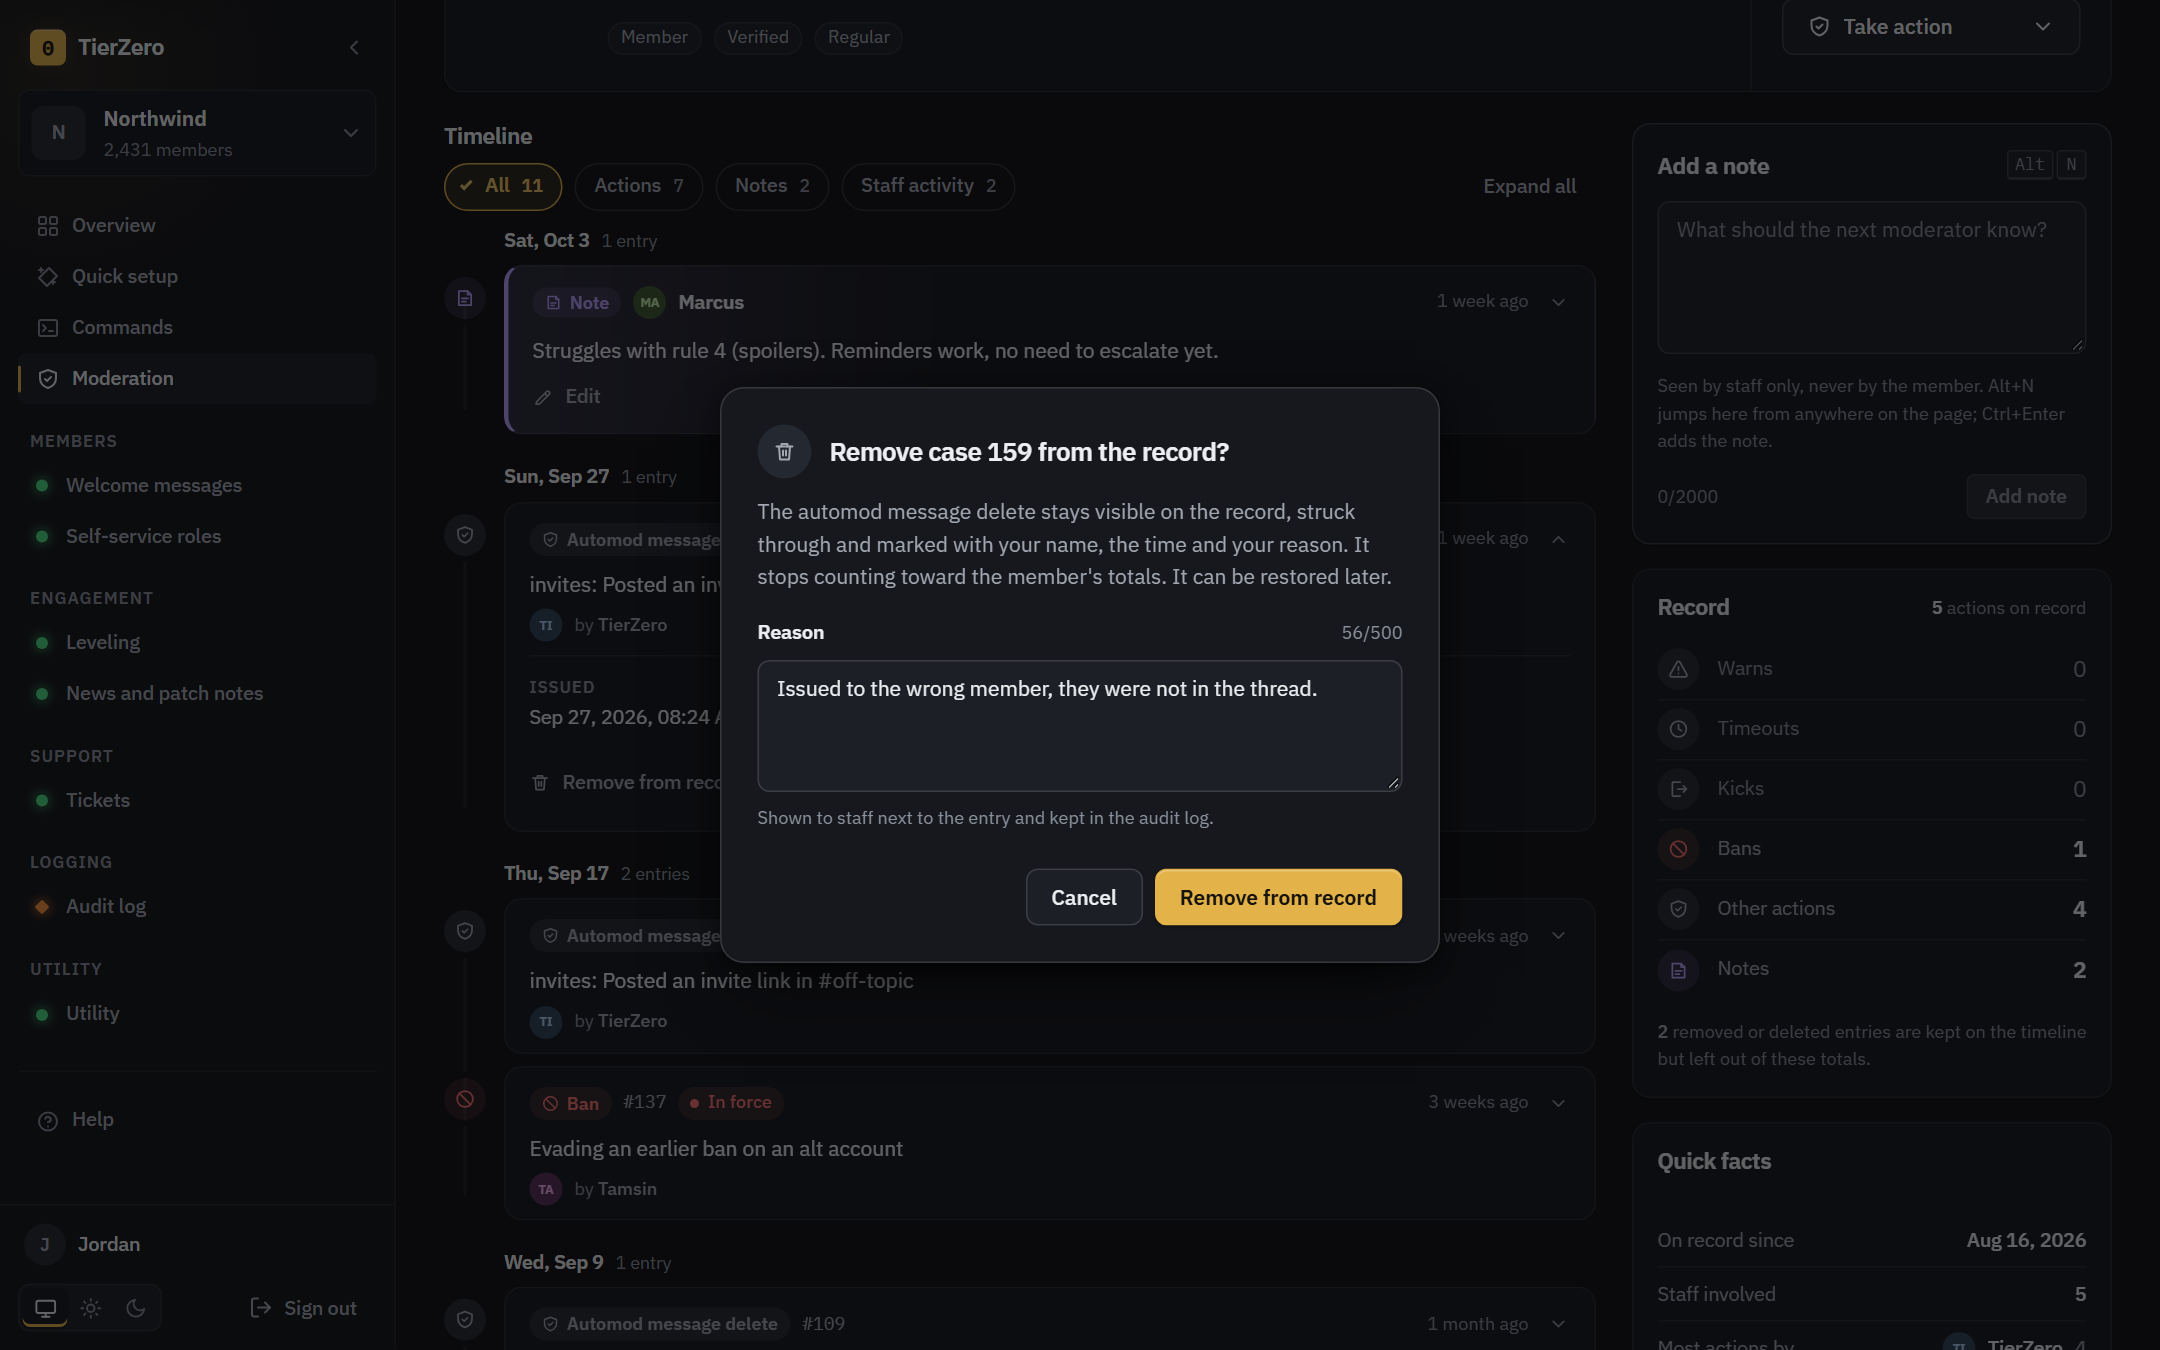
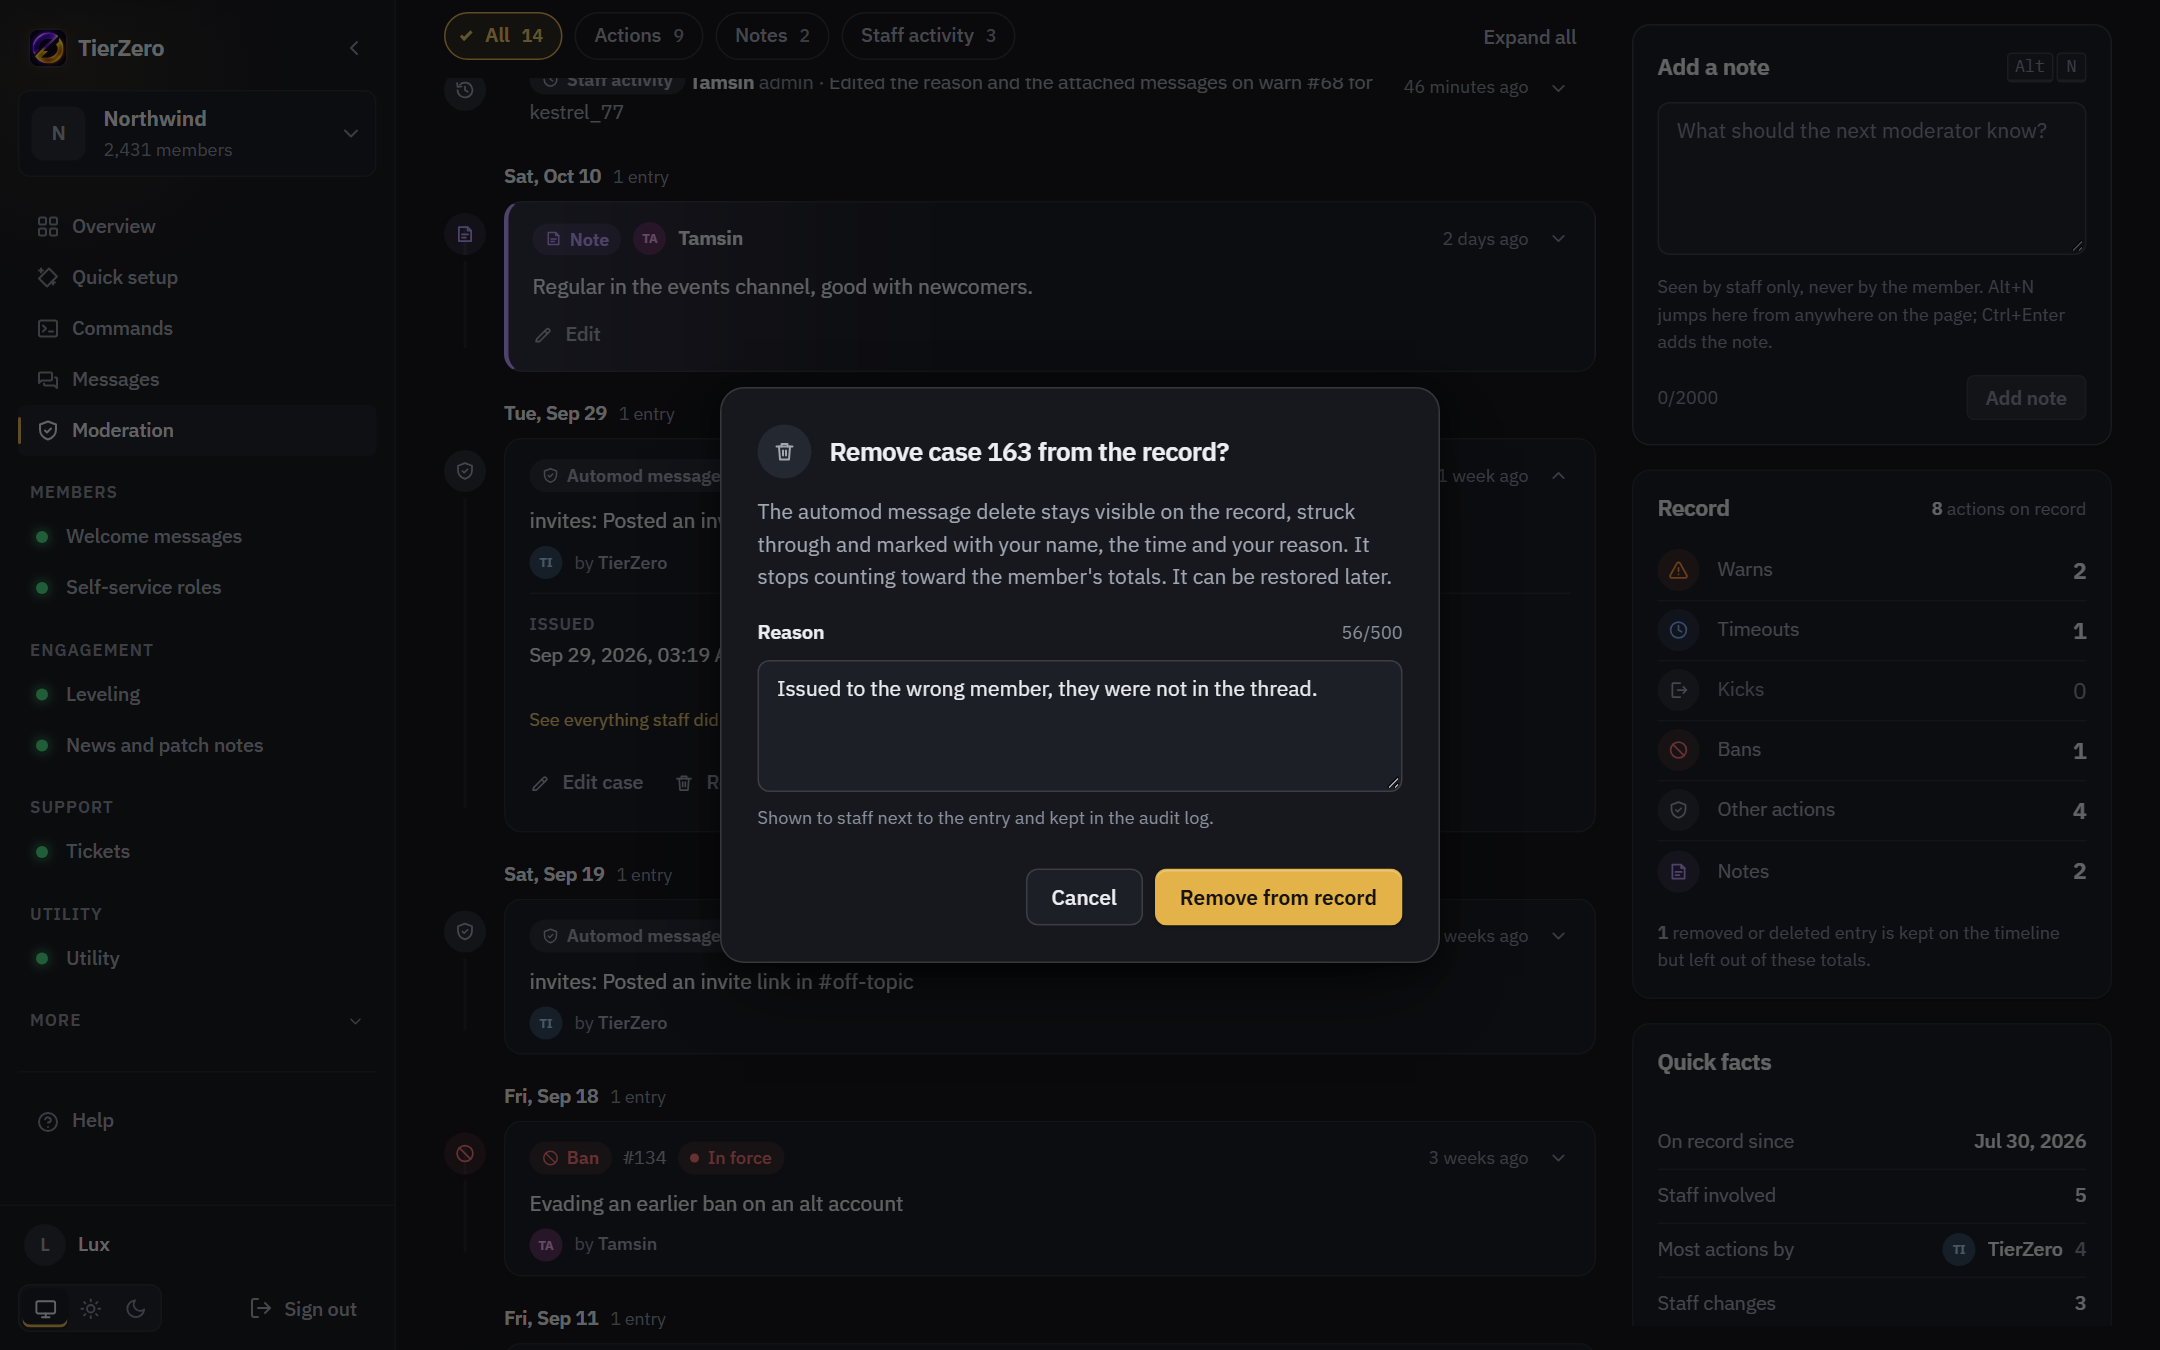
Retake the screenshots for the new dashboard
The images predated the new logo, the Mod logs and Server logs tabs, the Messages page and case editing. All nineteen are retaken from a mock server, signed in as Lux. The action log and audit trail images are renamed to match the tabs they show, and new ones cover server logs, the Messages page, the command settings sheet, editing a case and the Danger zone, each added to the features page.

diff --git a/docs/features.md b/docs/features.md
@@ -55,9 +55,13 @@ The Commands page lists every command on the server, including the right-click e
 
 ![The Commands page with a hidden command and role limits](images/commands.png)
 
+![A command's settings sheet: who can use it, where, and its reply](images/command-sheet.png)
+
 ## Messages
 
 The Messages page builds messages and embeds for the bot to post, such as rules, announcements or event notices. You edit on the left and see the message drawn the way Discord shows it on the right.
+
+![The Messages page with a saved template, its live preview and the editor](images/messages.png)
 
 What you can set:
 
@@ -187,6 +191,10 @@ Discord shows an entry only to members with the matching permission: Timeout Mem
 
 Open a case on the member's page and choose **Edit case**. You can change the reason, the attached messages (remove one, add one, or choose which version of an edited message the member was warned for), and, while a timeout or ban is still running, how long it lasts. A new length counts from now and is applied in Discord straight away, including making a ban permanent. A timeout or ban that has already ended can't have its length changed.
 
+![The Edit case dialog, choosing which version of an edited message broke the rules](images/edit-case.png)
+
+![A case marked as edited, with the version the member was warned for](images/member-case.png)
+
 Moderators can edit their own cases, admins and the owner any case, including automod's. Changing the length of a ban needs the same level as banning. A case that was removed from the record has to be restored first.
 
 An edited case shows a blue **Case edited by staff** note with who and when, on the member's page and in Member actions. That is different from the amber **Message edited** label inside an attached message, which means the member changed their own message. Staff activity records every edit with what it said before and after, and each case has a **See everything staff did on this case** link, which Member actions also offers as **Staff activity** next to **Profile** on every row. The post in the mod log channel and any direct message already sent keep the old text.
@@ -209,6 +217,8 @@ Case numbers are never renumbered or reused. Purging case 12 leaves a permanent 
 
 The Server logs tab is a searchable record of what happened in the server, so staff don't have to scroll channels or Discord's own audit log to find it. It's off until you turn on the **Server logs** feature. Choose what to record in its settings, which you reach from the **Settings** button on the tab:
 
+![The Server logs Events view with category filters and counts](images/server-logs.png)
+
 - **Members:** joins, departures, nickname changes and role changes.
 - **Messages:** every message members post, every edit and what was deleted, including messages removed by /purge. Bots are left out.
 - **Moderation:** bans, unbans, kicks and timeouts, from any source, with who did it when Discord says.
@@ -227,9 +237,17 @@ The tab has two views. **Events** is the timeline of everything above. Every fil
 - A member, by name or ID. It matches who did something and who it happened to. Clicking a name in an entry filters to that person.
 - A channel, and a date range with shortcuts for today, 7 days and 30 days.
 
-An entry's **Details** show what changed, before and after. A message entry links to the message with all its versions. The filtered view is in the address, so you can bookmark it or send it to another moderator.
+An entry's **Details** show what changed, before and after.
 
-**Messages** is the saved text itself. Search by words, member, channel and dates, and show only deleted or edited messages. A search also matches earlier versions, so an edited message is found by what it said before. Deleted messages are labelled in red and edited ones have a dropdown with each version. Tick messages from one member and choose **Take action** to open the action form with them already attached.
+![Entries opened to show what changed, with a button for the message's history](images/server-logs-details.png)
+
+![The date range picker, with shortcuts and a calendar](images/server-logs-dates.png)
+ A message entry links to the message with all its versions. The filtered view is in the address, so you can bookmark it or send it to another moderator.
+
+**Messages** is the saved text itself.
+
+![The Messages view with filters, a deleted message and an edited one](images/server-logs-messages.png)
+ Search by words, member, channel and dates, and show only deleted or edited messages. A search also matches earlier versions, so an edited message is found by what it said before. Deleted messages are labelled in red and edited ones have a dropdown with each version. Tick messages from one member and choose **Take action** to open the action form with them already attached.
 
 Staff only see channels they can read in Discord, so the logs can't be used to get into a private channel. Admins and the owner can always open the tab. Moderators can if you switch on **Let moderators open the server logs**.
 
@@ -243,7 +261,7 @@ The Mod logs tab has two pages with a switch at the top: Member actions and Staf
 
 Cases made by commands and automod are the actions themselves, under Member actions.
 
-![Staff activity listing what staff changed](images/audit-trail.png)
+![Staff activity listing what staff changed](images/staff-activity.png)
 
 ### Statistics
 
@@ -262,7 +280,7 @@ Below the tiles:
 
 Member actions, on the Mod logs tab, lists every case, newest first. You can filter by type, state (in force, expired, removed or on record), source (manual or automod) and moderator, and search the reason, a case number or a member ID. It doesn't search by name.
 
-![Member actions with filters and an export button](images/action-log.png)
+![Mod logs, with the switch between Member actions and Staff activity](images/mod-logs.png)
 
 Admins and the owner can export the current filter as a CSV, newest first, up to 5,000 rows. Removed entries are included. Names are looked up from Discord, so the oldest cases in a large export can have blank names, and the ID columns are always filled in. Cells that start with `=`, `+`, `-` or `@` get an apostrophe in front so a spreadsheet won't treat them as formulas. Strip it if you load the file anywhere else.
 
@@ -275,6 +293,8 @@ The owner adds staff to a server, switches them between Moderator and Admin, and
 ### Danger zone
 
 The owner has a **Danger zone** tab that no one else sees. It deletes whole logs for good: Member actions (every case on every record), Staff activity, the Server log events and the saved messages. Tick any number of them, then hold the button for three seconds while a red bar fills it, so a stray click does nothing. Letting go early cancels. One entry is left in Staff activity saying who deleted what.
+
+![The Danger zone with two logs ticked and the hold button](images/danger-zone.png)
 
 ### Settings tab
 
